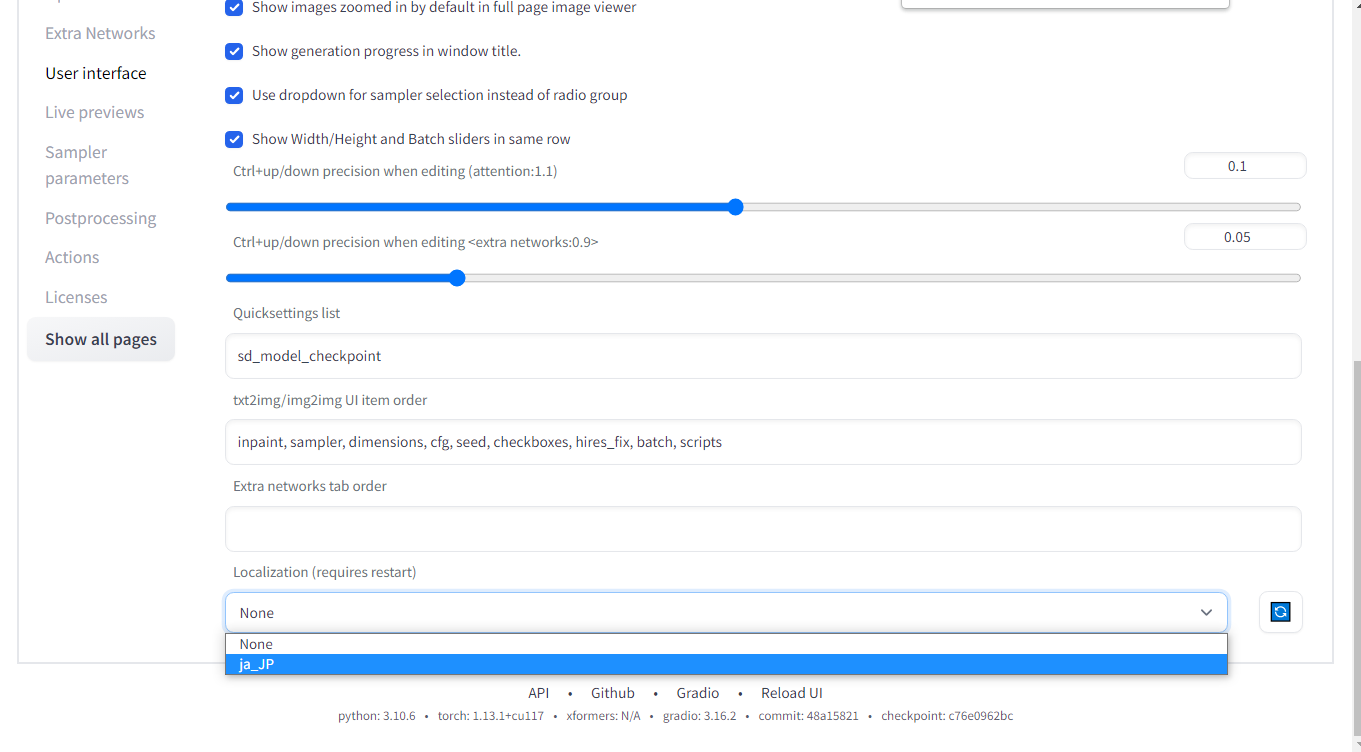
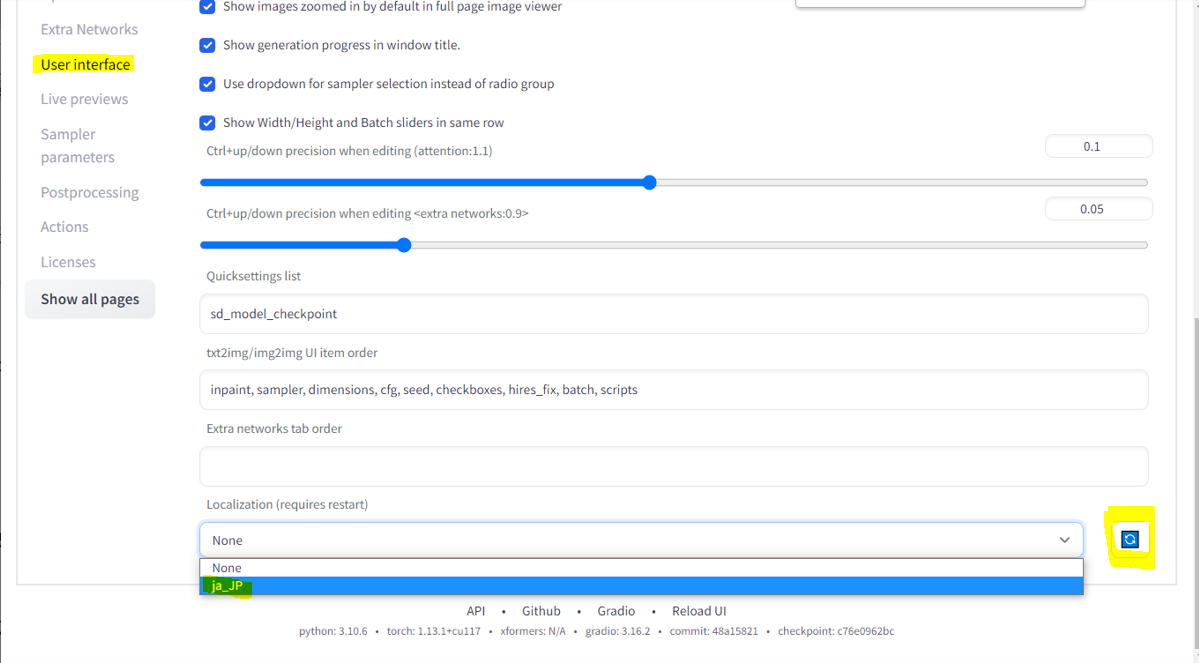
a

diff --git a/parts/ai.html b/parts/ai.html
@@ -2210,7 +2210,7 @@ ChatGPT
         <img class="beside" src="../img/AI/\ControlNet/環境/ja_JPLocalization.PNG" alt="ja_JPLocalization.PNG">
         <figcaption>ja_JPLocalization.PNG</figcaption>
       </figure>
-      <p>「Settings」タブの下に「Localization (requires restart)」があるので、「ja_JP」を選択して「Apply setting」を押す。サーバーごと再起動。</p>
+      <p>「Settings」タブの下に「Localization (requires restart)」があるので、「再読み込みボタン」を押してから「ja_JP」を選択して「Apply setting」を押す。サーバーごと再起動。</p>
       <figure>
         <img class="beside" src="../img/AI/\ControlNet/環境/ja_JP.PNG" alt="ja_JP.PNG">
         <figcaption>ja_JP.PNG</figcaption>
